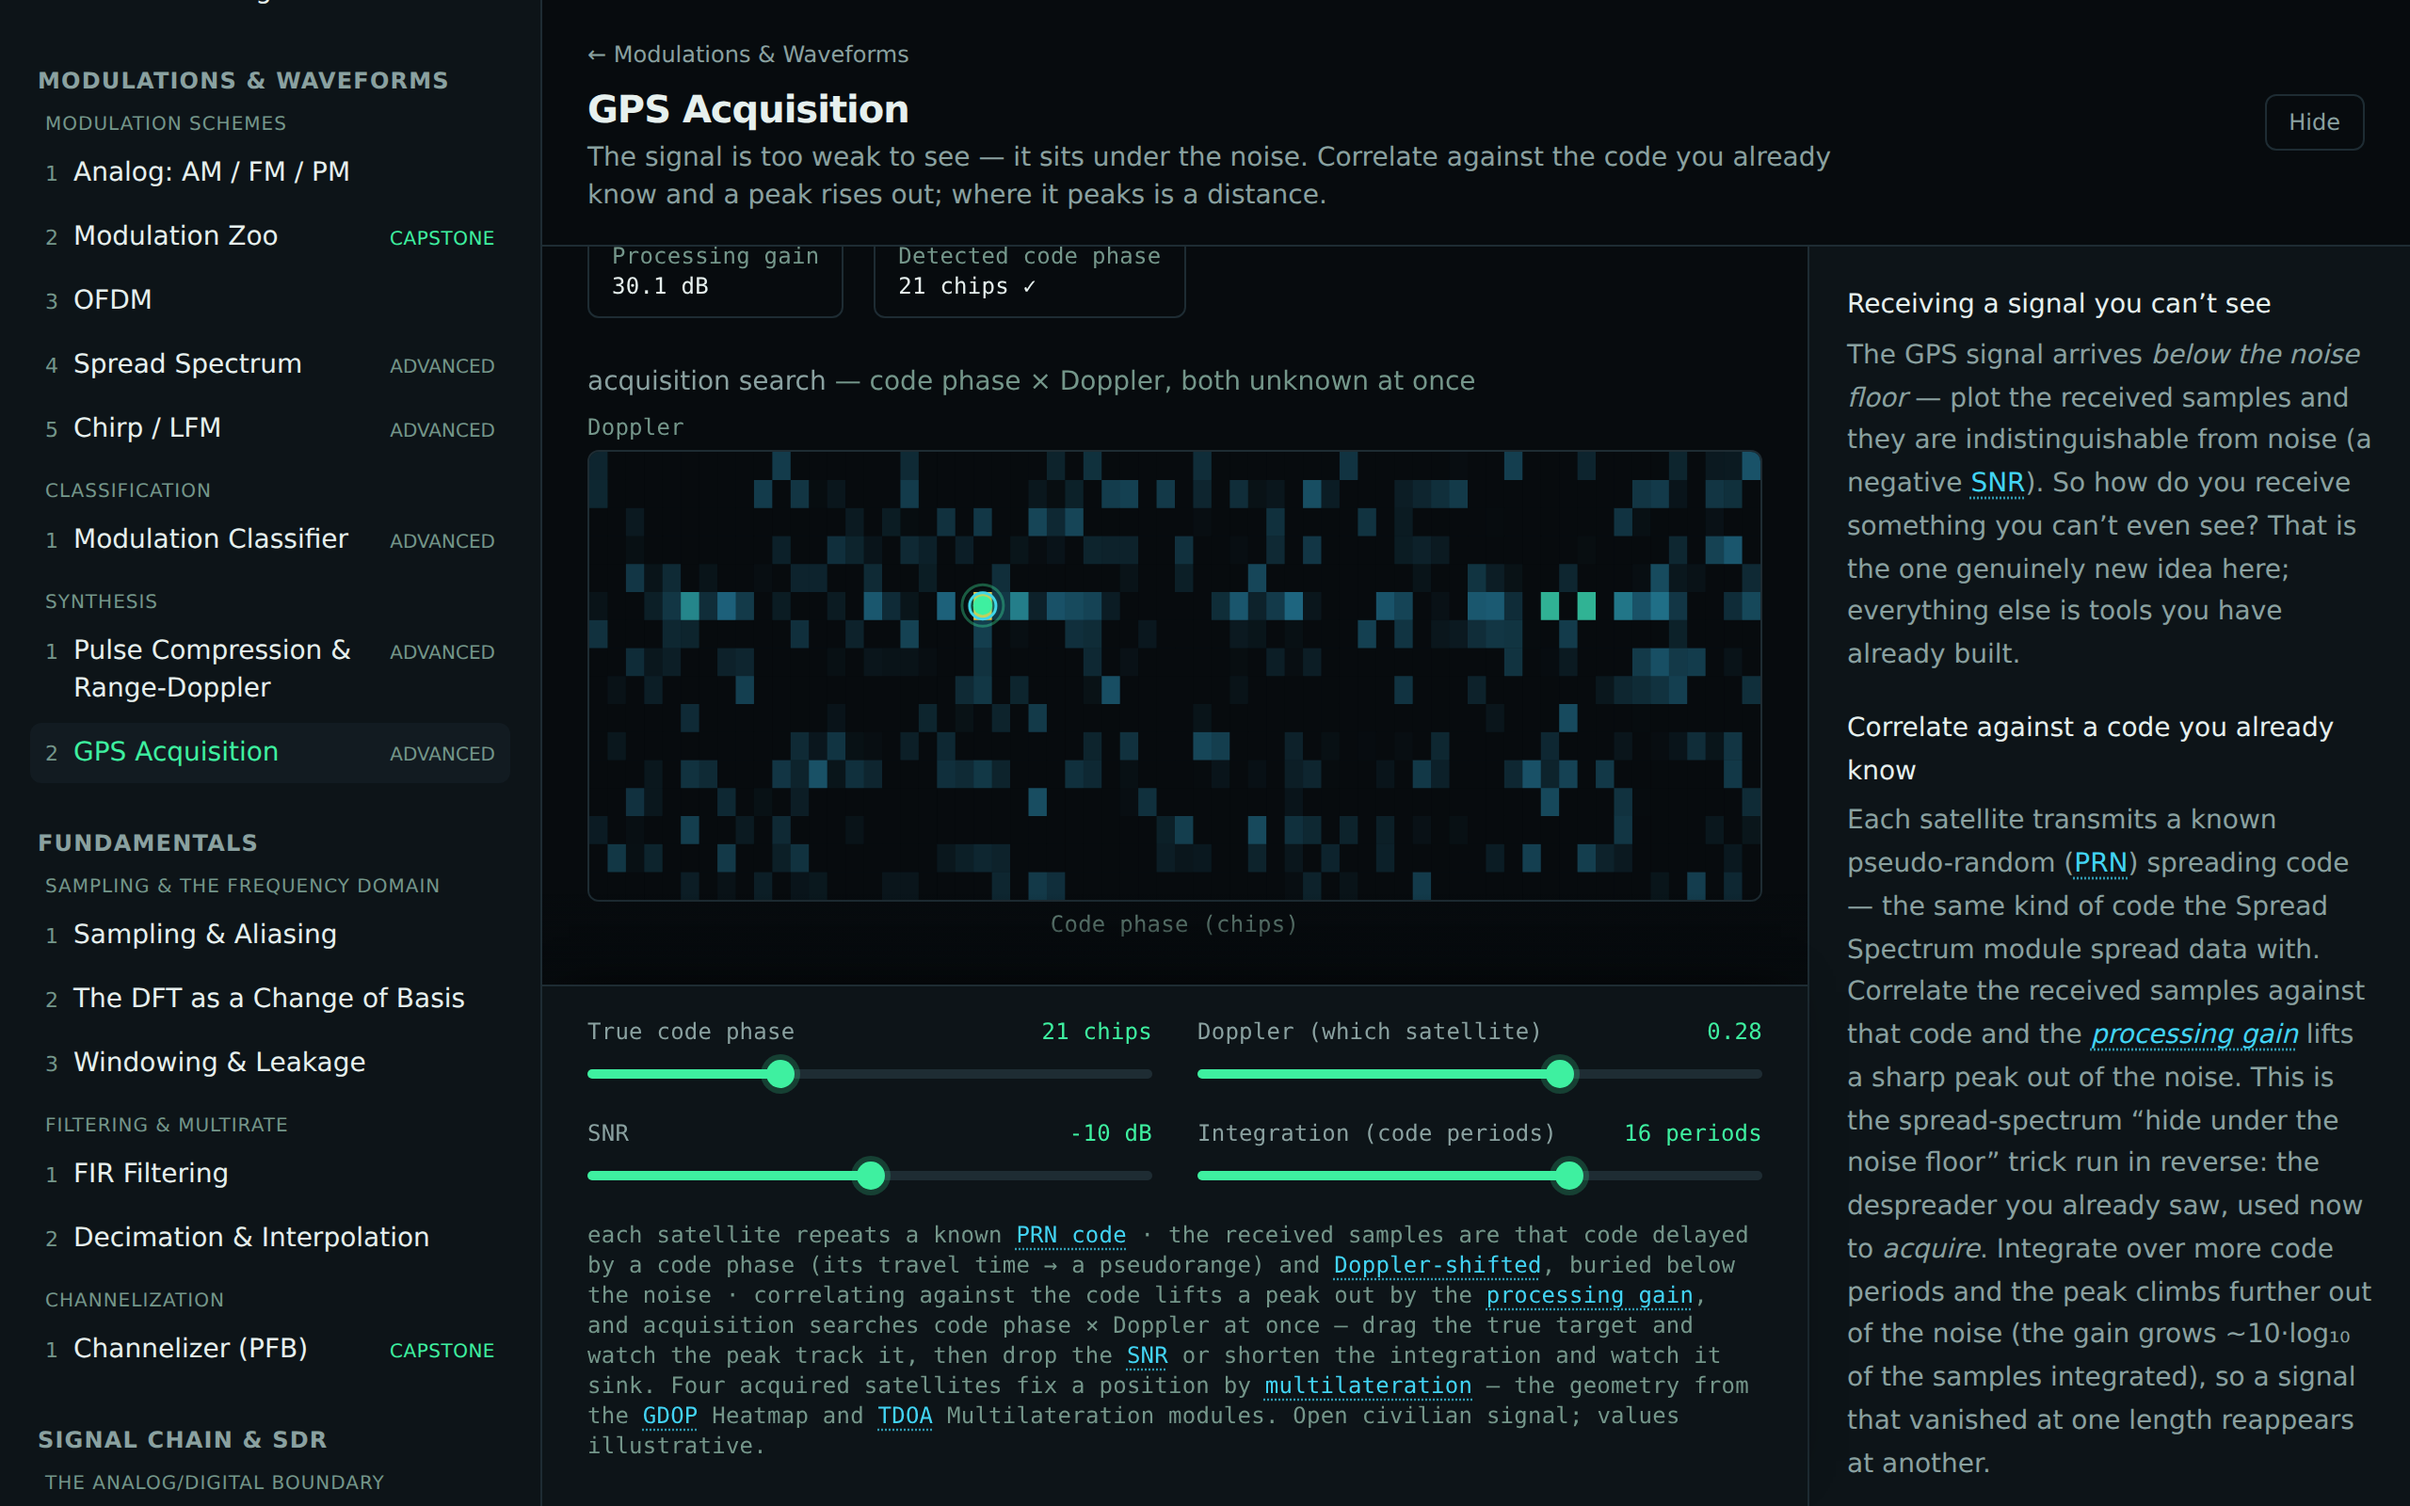
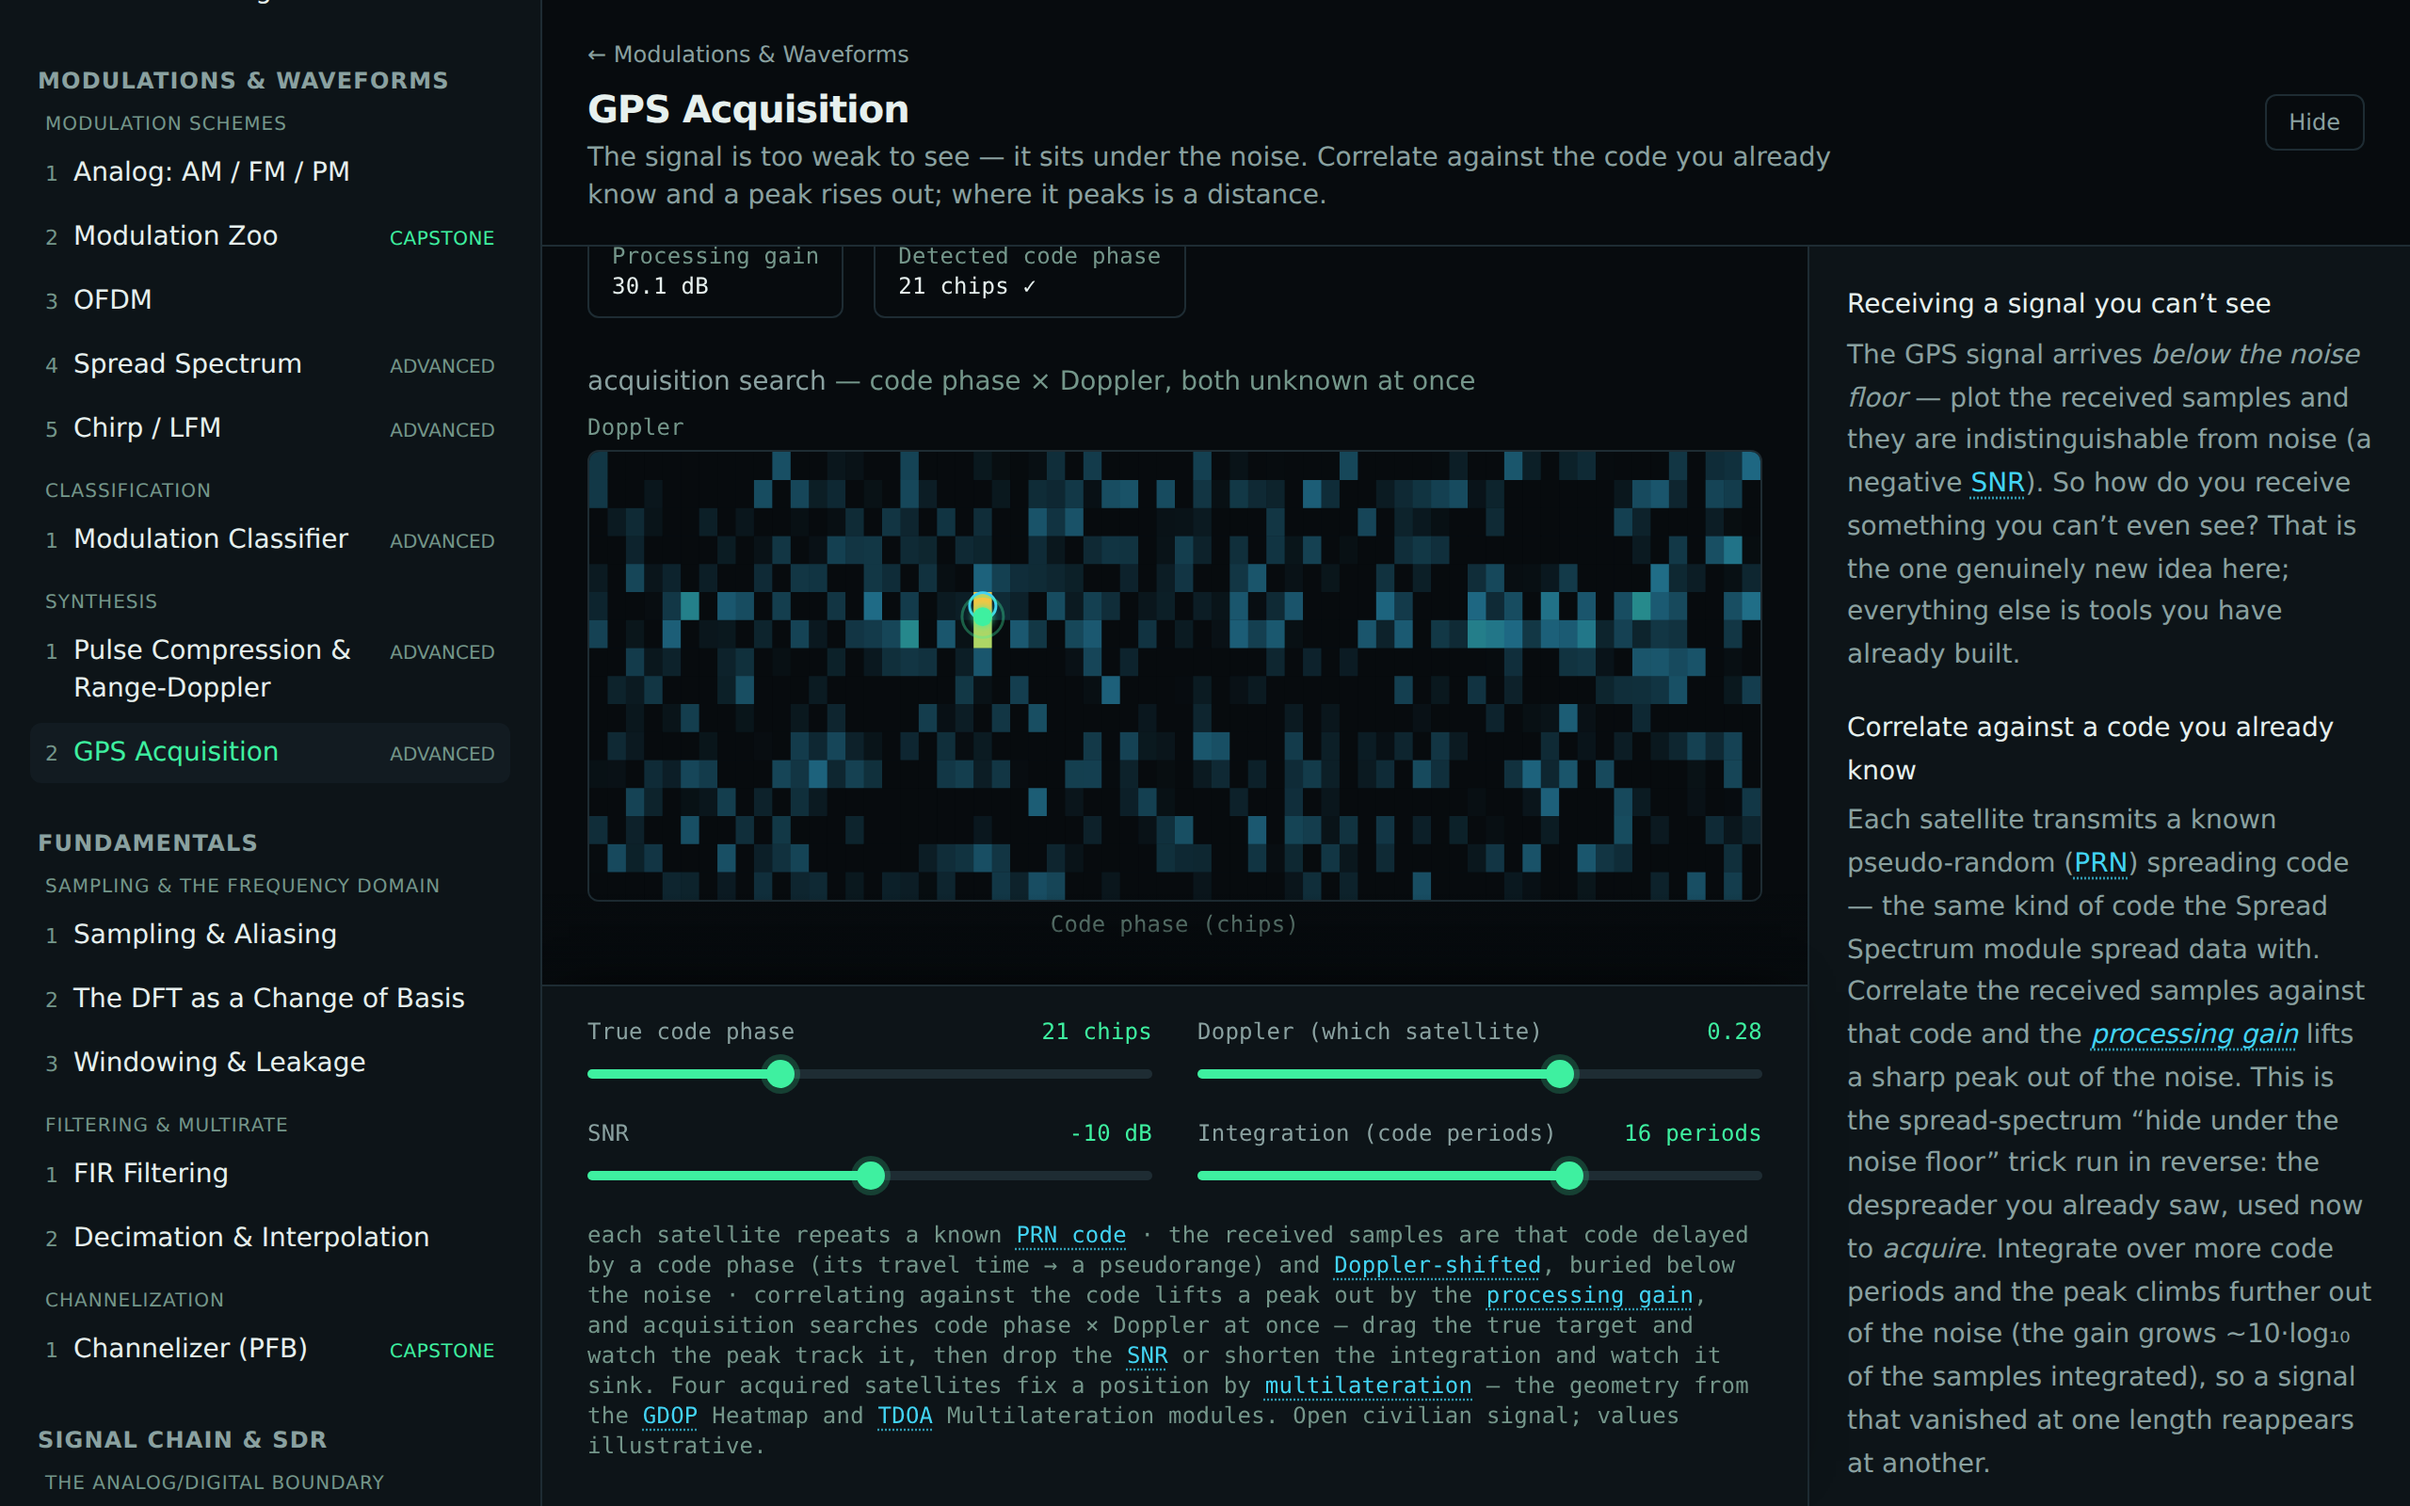
gps: keep the Doppler sweep off the FFT Nyquist bin
At coarse integration (4 or 8 code periods), dragging Doppler to the extreme
pushed the true frequency to ~±0.45 cycles/period, which rounds onto the FFT
Nyquist bin — and fftShift places that bin at the opposite edge from where the
linear marker is drawn, so the detected-peak ring jumped to the far row while the
green true-target handle stayed put, contradicting the drag-to-watch lesson.

Hold the Doppler span below the coarsest FFT's Nyquist-rounding threshold
(round(span·4) ≤ 1) so the marker and the detected peak stay within half a cell
across every integration option and the full Doppler sweep. Regenerates the
screenshot (default state visually unchanged).

Claude-Session: https://claude.ai/code/session_01M2Aaqk3HQPoLrLocsdnSKv

diff --git a/src/modules/modulations-and-waveforms/gps-acquisition/GpsAcquisitionModule.tsx b/src/modules/modulations-and-waveforms/gps-acquisition/GpsAcquisitionModule.tsx
@@ -15,7 +15,11 @@ const L = 64; // synthetic PRN code length (chips) — the code-phase search ext
 const CODE_SEED = 1207; // a fixed synthetic PRN code (no real PRN assignments)
 const NOISE_SEED = 2024;
 const PERIOD_OPTIONS = [4, 8, 16, 32]; // coherent integration lengths (powers of two — the Doppler FFT)
-const DOPPLER_SPAN = 0.45; // fraction of the ±½-cycle/period band the Doppler control sweeps
+// Fraction of the ±½-cycle/period band the Doppler control sweeps. Held below the coarsest FFT's
+// Nyquist-rounding threshold — round(span·4) must stay ≤ 1, i.e. span < 0.375 — so the true (code
+// phase, Doppler) the marker draws never rounds onto the Nyquist bin, which fftShift wraps to the
+// opposite edge and would split the green handle from the detected-peak ring at the Doppler extremes.
+const DOPPLER_SPAN = 0.36;
 const DOPPLER_HZ_MAX = 5000; // illustrative Hz at full deflection (real GPS Doppler is a few kHz)
 const FLOOR_DB = -20; // display range — the acquired peak rides ~20–30 dB over the noise once integrated
 
